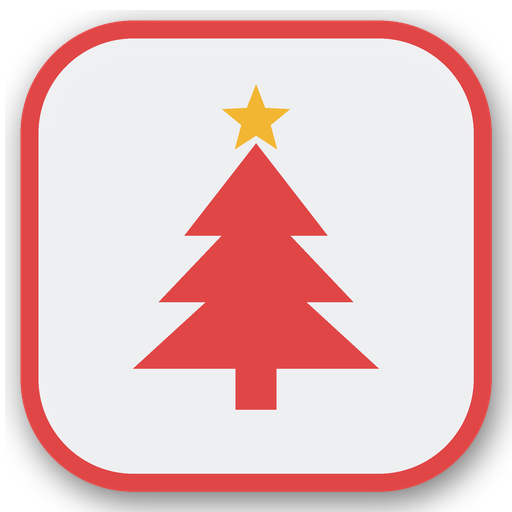
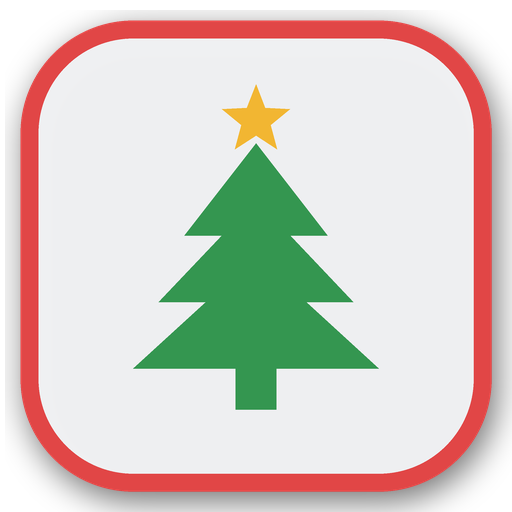
docs: green Christmas tree in the light variant badges
Claude-Session: https://claude.ai/code/session_01TPtXe8YEjXWuXNmFgmXabW

Changed region(s): [[0.25, 0.2812, 0.75, 0.8125]]

diff --git a/tools/variant_badges.py b/tools/variant_badges.py
@@ -13,13 +13,16 @@ Usage (from the repository root):
   python3 tools/variant_badges.py stamp COVER OUT day,night_rain --light        # light badges (dark glyph on light grey)
 """
 import math, os, sys
-from PIL import Image, ImageDraw, ImageFilter
+from PIL import Image, ImageChops, ImageDraw, ImageFilter
 
 SS = 4                      # supersampling for smooth edges
 BG = (14, 19, 27, 215)      # badge background
 WHITE = (240, 244, 248, 255)
 # light theme: very light grey background, the glyph in the badge's own border colour
 BG_LIGHT = (242, 243, 245, 250)
+# the Christmas tree is drawn in this (practically white) colour, so the light theme can find it and paint it green
+TREE = (239, 244, 248, 255)
+TREE_GREEN = (52, 150, 80)
 VARIANTS = {
     #  name     accent colour       glyph
     'day':    ((242, 182, 50),  'sun'),
@@ -102,8 +105,8 @@ def _moon_rain(d, s):
 def _tree(d, s):
     # three stacked tiers, a trunk and a star on top
     for top, bot, half in ((0.28, 0.46, 0.14), (0.39, 0.59, 0.19), (0.50, 0.72, 0.24)):
-        d.polygon([(s*0.5, s*top), (s*(0.5+half), s*bot), (s*(0.5-half), s*bot)], fill=WHITE)
-    d.rectangle([s*0.46, s*0.72, s*0.54, s*0.80], fill=WHITE)
+        d.polygon([(s*0.5, s*top), (s*(0.5+half), s*bot), (s*(0.5-half), s*bot)], fill=TREE)
+    d.rectangle([s*0.46, s*0.72, s*0.54, s*0.80], fill=TREE)
     cx, cy, R, r = s*0.5, s*0.235, s*0.07, s*0.03
     pts = [(cx + (R if i % 2 == 0 else r)*math.sin(math.radians(i*36)), cy - (R if i % 2 == 0 else r)*math.cos(math.radians(i*36))) for i in range(10)]
     d.polygon(pts, fill=(242, 182, 50, 255))
@@ -148,8 +151,8 @@ def _tree_moon(d, s):
     # the Christmas tree, shifted left, with a small crescent moon in the top right corner
     T = (0, 0, 0, 0); dx = -0.06
     for top, bot, half in ((0.28, 0.46, 0.14), (0.39, 0.59, 0.19), (0.50, 0.72, 0.24)):
-        d.polygon([(s*(0.5+dx), s*top), (s*(0.5+dx+half), s*bot), (s*(0.5+dx-half), s*bot)], fill=WHITE)
-    d.rectangle([s*(0.46+dx), s*0.72, s*(0.54+dx), s*0.80], fill=WHITE)
+        d.polygon([(s*(0.5+dx), s*top), (s*(0.5+dx+half), s*bot), (s*(0.5+dx-half), s*bot)], fill=TREE)
+    d.rectangle([s*(0.46+dx), s*0.72, s*(0.54+dx), s*0.80], fill=TREE)
     cx, cy, R, r = s*(0.5+dx), s*0.235, s*0.07, s*0.03
     pts = [(cx + (R if i % 2 == 0 else r)*math.sin(math.radians(i*36)), cy - (R if i % 2 == 0 else r)*math.cos(math.radians(i*36))) for i in range(10)]
     d.polygon(pts, fill=(242, 182, 50, 255))
@@ -212,6 +215,12 @@ def badge(name, size=512, light=False):
         white = Image.eval(Image.merge('RGB', (r, gg, b)).convert('L'), lambda v: 255 if v > 225 else 0)
         ink = Image.new('RGBA', (S, S), accent + (255,)); ink.putalpha(Image.composite(a, Image.new('L', (S, S), 0), white))
         g = Image.composite(ink, g, white)
+        if glyph in ('tree', 'tree_moon'):
+            # the Christmas tree itself is green in the light theme (found by its exact drawing colour)
+            diff = ImageChops.difference(Image.merge('RGB', (r, gg, b)), Image.new('RGB', (S, S), TREE[:3])).split()
+            tm = ImageChops.lighter(ImageChops.lighter(diff[0], diff[1]), diff[2]).point(lambda v: 255 if v == 0 else 0)
+            green = Image.new('RGBA', (S, S), TREE_GREEN + (255,)); green.putalpha(Image.composite(a, Image.new('L', (S, S), 0), tm))
+            g = Image.composite(green, g, tm)
     im.alpha_composite(g)
     im = im.resize((size, size), Image.LANCZOS)
     # soft shadow so the badge reads on bright covers too

diff --git a/docs/variant-badges.md b/docs/variant-badges.md
@@ -26,7 +26,7 @@ Small icons in the top-right corner of a Workshop cover image. They show at a gl
 
 ## Usage
 
-The badge images (512 px, transparent) are in [`images/badges/`](./images/badges/), for use in an image editor. Every badge also has a **light** version (`badge_<key>_light_512.png`): a very light grey background, with the glyph drawn in the badge's border colour, for bright covers. To stamp them onto a cover image:
+The badge images (512 px, transparent) are in [`images/badges/`](./images/badges/), for use in an image editor. Every badge also has a **light** version (`badge_<key>_light_512.png`): a very light grey background, with the glyph drawn in the badge's border colour (the Christmas tree is green), for bright covers. To stamp them onto a cover image:
 
 ```
 python3 tools/variant_badges.py stamp cover.png cover_badges.png day,night_rain
